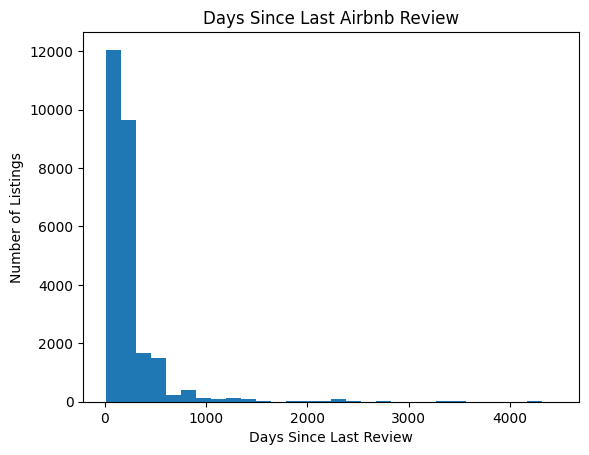
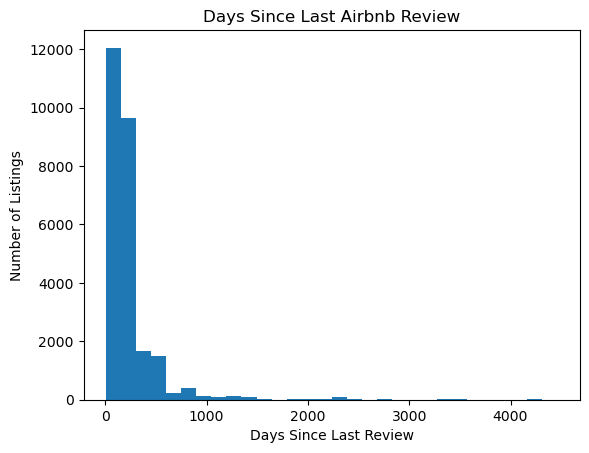
Extracted area codes, created a new column and did analysis

Changed region(s): [[0.0, 0.0, 1.0, 0.989]]

diff --git a/get_area_codes.py b/get_area_codes.py
@@ -1,0 +1,173 @@
+"""
+Add Stats NZ SA2 area codes to the cleaned Christchurch Airbnb data using the
+Koordinates Query API.
+
+Setup (never put your key in the code or commit it to GitHub):
+    macOS/Linux:  export KOORDINATES_KEY="your_key_here"
+    Windows CMD:  set KOORDINATES_KEY=your_key_here
+    PowerShell:   $env:KOORDINATES_KEY="your_key_here"
+
+Usage:
+    python get_area_codes.py --test    # ONE query, prints the raw response
+    python get_area_codes.py           # all unique coordinates (resumable)
+
+Re-running is safe: finished lookups are cached in area_code_cache.csv and
+failed ones are simply retried.
+"""
+import argparse
+import os
+import sys
+import time
+from concurrent.futures import ThreadPoolExecutor, as_completed
+
+import pandas as pd
+import requests
+
+# Hosts are tried in this order; the first one that accepts your key is used.
+HOSTS = ["https://koordinates.com", "https://datafinder.stats.govt.nz"]
+DEFAULT_LAYER = 123515          # Statistical Area 2 2026 (Stats NZ)
+LAT_COL, LON_COL = "latitude", "longitude"
+N_WORKERS = 8                   # the API is rate-limited, so stay polite
+CHECKPOINT_EVERY = 500
+
+KEY = os.environ.get("KOORDINATES_KEY")
+HOST = None    # set in main() once a working host is found
+LAYER = DEFAULT_LAYER
+
+
+def raw_query(host, lat, lon, radius):
+    """Return (features, note). features is None if the request failed."""
+    params = dict(key=KEY, layer=LAYER, x=lon, y=lat, max_results=1, radius=radius)
+    note = "no response"
+    for attempt in range(5):
+        try:
+            r = requests.get(f"{host}/services/query/v1/vector.json",
+                             params=params, timeout=30)
+        except requests.RequestException as e:
+            note = f"network error: {e.__class__.__name__}"
+            time.sleep(2 ** attempt)
+            continue
+        if r.status_code == 200:
+            try:
+                return r.json()["vectorQuery"]["layers"][str(LAYER)]["features"], "ok"
+            except (KeyError, ValueError):
+                return None, "unexpected response structure: " + r.text[:200]
+        note = f"HTTP {r.status_code}"
+        if r.status_code in (429, 500, 502, 503, 504):
+            time.sleep(2 ** attempt)          # back off and retry
+            continue
+        return None, note                     # 401/403/404 etc.: don't retry
+    return None, note
+
+
+def find_fields(props):
+    """Pick out the SA2 code and name properties."""
+    code = next((k for k in props if "SA2" in k.upper() and "NAME" not in k.upper()), None)
+    name = next((k for k in props if "SA2" in k.upper() and "NAME" in k.upper()), None)
+    return code, name
+
+
+def lookup(lat, lon):
+    """One point -> dict, or None if the request failed (so it gets retried)."""
+    for radius in (1, 1000):   # 1 m is enough inside a polygon; widen for coast
+        feats, _ = raw_query(HOST, lat, lon, radius)
+        if feats is None:
+            return None
+        if feats:
+            props = feats[0]["properties"]
+            code, name = find_fields(props)
+            return dict(area_code=props.get(code), area_name=props.get(name))
+    return dict(area_code=None, area_name=None)   # genuinely outside all areas
+
+
+def pick_host(lat, lon):
+    for host in HOSTS:
+        for radius in (1, 1000):
+            feats, note = raw_query(host, lat, lon, radius)
+            print(f"  {host} (radius {radius} m): {note}, "
+                  f"{0 if not feats else len(feats)} feature(s)")
+            if feats:
+                return host, feats[0]["properties"]
+    return None, None
+
+
+def main():
+    global HOST, LAYER
+    ap = argparse.ArgumentParser()
+    ap.add_argument("--test", action="store_true", help="run a single query and stop")
+    ap.add_argument("--in", dest="in_file", default="listings_data/listings_christchurch_cleaned.csv")
+    ap.add_argument("--out", dest="out_file", default="listings_data/listings_christchurch_with_area.csv")
+    ap.add_argument("--cache", default="listings_data/area_code_cache.csv")
+    ap.add_argument("--layer", type=int, default=DEFAULT_LAYER)
+    args = ap.parse_args()
+    LAYER = args.layer
+
+    if not KEY:
+        sys.exit("Set the KOORDINATES_KEY environment variable first (see top of file).")
+
+    df = pd.read_csv(args.in_file)
+    df["lat_r"] = df[LAT_COL].round(6)
+    df["lon_r"] = df[LON_COL].round(6)
+    df["coord_key"] = df["lat_r"].astype(str) + "," + df["lon_r"].astype(str)
+    coords = df[["lat_r", "lon_r", "coord_key"]].drop_duplicates("coord_key")
+
+    print(f"Testing layer {LAYER} with the first listing's coordinates...")
+    first = coords.iloc[0]
+    HOST, props = pick_host(first["lat_r"], first["lon_r"])
+    if HOST is None:
+        sys.exit("\nNo host returned a result. Check: (1) key is correct, (2) layer ID "
+                 "is right for that site, (3) lat/lon aren't swapped. Copy the URL from "
+                 "the layer's Services tab to compare.")
+    code_f, name_f = find_fields(props)
+    print(f"Using host: {HOST}\nProperties returned: {props}")
+    print(f"Detected code field: {code_f!r}, name field: {name_f!r}")
+    if code_f is None:
+        sys.exit("Couldn't find the SA2 code field in the properties above; "
+                 "tell me what the field is called and I'll fix find_fields().")
+    if args.test:
+        return
+
+    # Resume from cache if a previous run was interrupted
+    cols = ["coord_key", "area_code", "area_name"]
+    if os.path.exists(args.cache):
+        done = pd.read_csv(args.cache, dtype={"area_code": "string"})
+    else:
+        done = pd.DataFrame(columns=cols)
+    todo = coords[~coords["coord_key"].isin(done["coord_key"])]
+    print(f"\n{len(coords)} unique points; {len(todo)} still to query")
+
+    results, failed = [], 0
+    with ThreadPoolExecutor(max_workers=N_WORKERS) as pool:
+        futures = {pool.submit(lookup, r.lat_r, r.lon_r): r.coord_key
+                   for r in todo.itertuples()}
+        for i, fut in enumerate(as_completed(futures), 1):
+            res = fut.result()
+            if res is None:
+                failed += 1
+            else:
+                res["coord_key"] = futures[fut]
+                results.append(res)
+            if i % CHECKPOINT_EVERY == 0:
+                print(f"  {i}/{len(todo)} done ({failed} failed so far)")
+                pd.concat([done, pd.DataFrame(results, columns=cols)])[cols] \
+                    .to_csv(args.cache, index=False)
+
+    lookup_df = pd.concat([done, pd.DataFrame(results, columns=cols)])[cols]
+    lookup_df.to_csv(args.cache, index=False)
+    if failed:
+        print(f"\n{failed} lookups failed (network/rate limit). "
+              "Re-run the script to retry only those.")
+
+    out = df.merge(lookup_df, on="coord_key", how="left") \
+            .drop(columns=["lat_r", "lon_r", "coord_key"])
+    out["area_code"] = pd.to_numeric(out["area_code"], errors="coerce").astype("Int64")
+    print("\nListings without an area code:", int(out["area_code"].isna().sum()),
+          f"of {len(out)}")
+    print(out.drop_duplicates("area_code")[["area_code", "area_name"]]
+             .dropna().sort_values("area_code").to_string(index=False))
+    out.to_csv(args.out_file, index=False)
+    print("\nSaved", args.out_file)
+
+
+if __name__ == "__main__":
+    main()

diff --git a/analysis.py b/analysis.py
@@ -1,0 +1,150 @@
+"""
+Combine the cleaned Christchurch Airbnb data (with SA2 area codes) and the
+cleaned Tenancy Services bond data, then answer:
+
+  1. Median Airbnb price in Christchurch Central (area code 326600)
+  2. Where is the gap between short-term and long-term rental prices biggest?
+  3. How do Airbnb listing counts compare to rental bond counts, by area?
+
+Run from the repo root:
+    python analysis.py
+Plots are saved to output_graphs/, nothing is shown interactively so it also
+works headlessly (e.g. in CI or over SSH).
+"""
+import matplotlib
+matplotlib.use("Agg")
+import matplotlib.pyplot as plt
+import pandas as pd
+from pathlib import Path
+
+LISTINGS_FILE = "listings_data/listings_christchurch_with_area.csv"
+TENANCY_FILE = "tenancy_data/tenancy_cleaned.csv"
+OUT_DIR = Path("output_graphs")
+MIN_LISTINGS_PER_AREA = 5   # areas with fewer listings than this are excluded
+                            # from the "biggest gap" ranking (too noisy)
+
+# month name -> which quarter-start date it belongs to, matching the
+# tenancy dataset's three TimeFrame values (Oct 2025, Jan 2026, Apr 2026)
+MONTH_TO_QUARTER = {
+    10: "2025-10-01", 11: "2025-10-01", 12: "2025-10-01",
+    1: "2026-01-01", 2: "2026-01-01", 3: "2026-01-01",
+    4: "2026-04-01", 5: "2026-04-01", 6: "2026-04-01",
+}
+
+
+def load_listings():
+    a = pd.read_csv(LISTINGS_FILE)
+    a["quarter_start"] = a["month"].map(MONTH_TO_QUARTER)
+    if a["quarter_start"].isna().any():
+        bad = sorted(a.loc[a["quarter_start"].isna(), "month"].unique())
+        raise ValueError(f"Months {bad} aren't in MONTH_TO_QUARTER — add them.")
+    return a
+
+
+def load_tenancy_overall():
+    """One row per (area, quarter): the Dwelling Type=ALL / Beds=ALL summary."""
+    t = pd.read_csv(TENANCY_FILE)
+    t = t[t["Location Id"].notna() & (t["Location Id"] != -99)].copy()
+    t["area_code"] = t["Location Id"].astype(int)
+    overall = t[(t["Dwelling Type"] == "ALL") & (t["Number Of Beds"] == "ALL")].copy()
+    overall = overall.rename(columns={"TimeFrame": "quarter_start"})
+    return overall[["area_code", "quarter_start", "Median Rent",
+                     "Total Bonds", "Active Bonds", "Closed Bonds"]]
+
+
+def q1_median_price_cc_central(a):
+    cc = a[a["area_code"] == 326600]
+    median_price = cc["price"].median()
+    print(f"\nQ1: Median Airbnb price in Christchurch Central (326600, n={len(cc)} "
+          f"listing-months): ${median_price:.2f}/night")
+    return median_price
+
+
+def q2_price_gap(a, tenancy_overall):
+    merged = a.merge(tenancy_overall, on=["area_code", "quarter_start"], how="inner")
+    merged["weekly_equiv_price"] = merged["price"] * 7
+    merged["gap"] = merged["weekly_equiv_price"] - merged["Median Rent"]
+
+    counts = merged.groupby("area_code")["id"].nunique()
+    valid_areas = counts[counts >= MIN_LISTINGS_PER_AREA].index
+    valid = merged[merged["area_code"].isin(valid_areas)]
+
+    by_area = (valid.groupby(["area_code", "area_name"])["gap"]
+               .median().reset_index().sort_values("gap", ascending=False))
+
+    print(f"\nQ2: {len(by_area)} areas with >= {MIN_LISTINGS_PER_AREA} matched "
+          f"listing-months (of {merged['area_code'].nunique()} matched areas total)")
+    print("Top 5 largest gap (short-term price >> long-term rent):")
+    print(by_area.head(5).to_string(index=False))
+    print("Top 5 smallest / most negative gap:")
+    print(by_area.tail(5).to_string(index=False))
+
+    top15 = by_area.head(15)
+    fig, ax = plt.subplots(figsize=(9, 6))
+    ax.barh(top15["area_name"], top15["gap"], color="#2b6cb0")
+    ax.set_xlabel("Median (short-term weekly-equivalent $ − long-term weekly rent $)")
+    ax.set_title("Areas with the largest short-term vs long-term rental price gap")
+    ax.invert_yaxis()
+    fig.tight_layout()
+    fig.savefig(OUT_DIR / "q2_price_gap_top_areas.png", dpi=150)
+    plt.close(fig)
+
+    top8_names = by_area.head(8)["area_code"]
+    fig, ax = plt.subplots(figsize=(10, 6))
+    plot_data = [valid.loc[valid["area_code"] == c, "gap"].dropna() for c in top8_names]
+    labels = [by_area.loc[by_area["area_code"] == c, "area_name"].iloc[0] for c in top8_names]
+    ax.boxplot(plot_data, tick_labels=labels, vert=False)
+    ax.set_xlabel("Weekly-equivalent short-term $ − long-term rent $")
+    ax.set_title("Distribution of the price gap, top 8 areas by median gap")
+    fig.tight_layout()
+    fig.savefig(OUT_DIR / "q2_price_gap_distribution.png", dpi=150)
+    plt.close(fig)
+
+    return by_area
+
+
+def q3_counts_comparison(a, tenancy_overall):
+    airbnb_counts = (a.groupby(["area_code", "area_name"])["id"]
+                     .nunique().reset_index(name="airbnb_listings"))
+    # each area appears up to 3x in tenancy (one per quarter); use latest quarter
+    latest_q = tenancy_overall["quarter_start"].max()
+    bonds_latest = tenancy_overall[tenancy_overall["quarter_start"] == latest_q]
+
+    comp = airbnb_counts.merge(bonds_latest, on="area_code", how="inner")
+    comp = comp.sort_values("airbnb_listings", ascending=False).head(15)
+
+    print(f"\nQ3: comparison for the {latest_q} quarter, top 15 areas by Airbnb count:")
+    print(comp[["area_name", "airbnb_listings", "Active Bonds", "Total Bonds"]]
+          .to_string(index=False))
+
+    fig, ax = plt.subplots(figsize=(11, 6))
+    x = range(len(comp))
+    width = 0.35
+    ax.bar([i - width / 2 for i in x], comp["airbnb_listings"], width, label="Airbnb listings")
+    ax.bar([i + width / 2 for i in x], comp["Active Bonds"], width, label="Active rental bonds")
+    ax.set_xticks(list(x))
+    ax.set_xticklabels(comp["area_name"], rotation=45, ha="right")
+    ax.set_ylabel("Count")
+    ax.set_title(f"Airbnb listings vs. active rental bonds by area ({latest_q})")
+    ax.legend()
+    fig.tight_layout()
+    fig.savefig(OUT_DIR / "q3_airbnb_vs_bonds_counts.png", dpi=150)
+    plt.close(fig)
+
+    return comp
+
+
+def main():
+    OUT_DIR.mkdir(exist_ok=True)
+    a = load_listings()
+    tenancy_overall = load_tenancy_overall()
+
+    q1_median_price_cc_central(a)
+    q2_price_gap(a, tenancy_overall)
+    q3_counts_comparison(a, tenancy_overall)
+
+    print(f"\nPlots saved to {OUT_DIR}/")
+
+
+if __name__ == "__main__":
+    main()

diff --git a/process_listings.py b/process_listings.py
@@ -224,7 +224,7 @@ def main():
     # Step 6: save concatenated dataset
     combined.to_csv(OUTPUT_FILE, index=False)
     print(f"\nConcatenated dataset saved to: {OUTPUT_FILE}")
- 
+
  
 if __name__ == "__main__":
     main()
